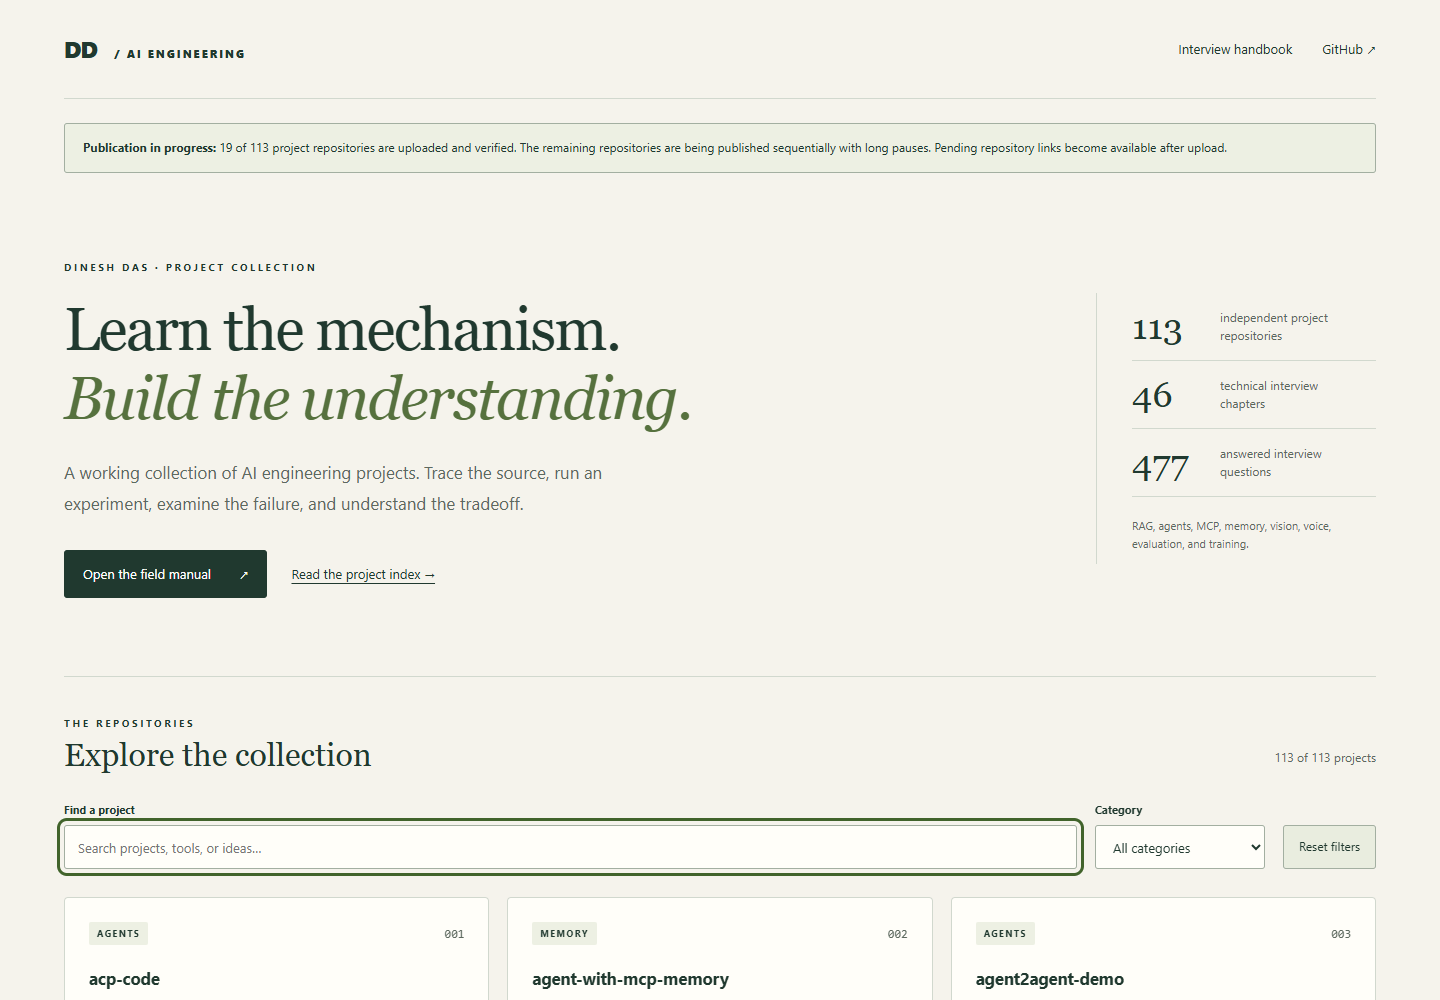
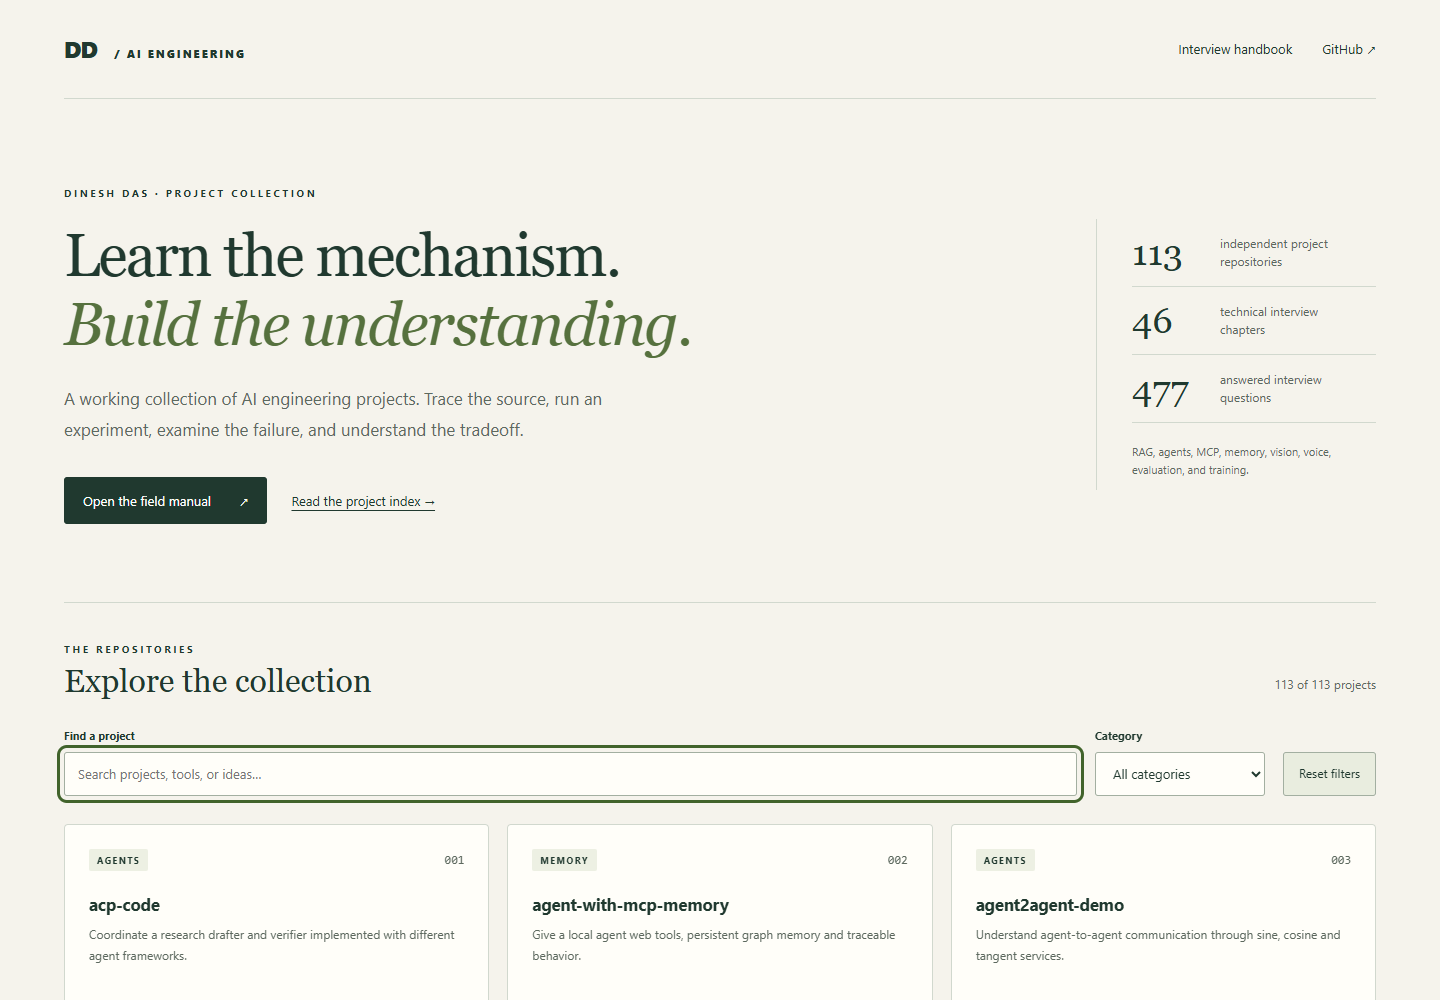
docs: record verified publication of all 113 project repositories

diff --git a/portfolio.html b/portfolio.html
@@ -5,7 +5,7 @@
 <title>AI Engineering Portfolio · Dinesh Das</title><link rel="stylesheet" href="portfolio.css"><script src="portfolio.js" defer></script></head>
 <body><a class="skip" href="#projects">Skip to projects</a><div class="shell">
 <header><a class="wordmark" href="portfolio.html">DD <span>/ AI ENGINEERING</span></a><nav aria-label="Main navigation"><a href="index.html">Interview handbook</a><a href="https://github.com/Dinesh-Das/AI-Engineering-Portfolio">GitHub ↗</a></nav></header>
-<main><p class="publication-status" role="note"><strong>Publication in progress:</strong> 98 of 113 project repositories are uploaded and verified. The remaining repositories are being published sequentially with long pauses. Pending repository links become available after upload.</p><section class="intro" aria-labelledby="title"><div><p class="eyebrow">DINESH DAS · PROJECT COLLECTION</p><h1 id="title">Learn the mechanism.<br><em>Build the understanding.</em></h1><p class="lead">A working collection of AI engineering projects. Trace the source, run an experiment, examine the failure, and understand the tradeoff.</p><div class="hero-links"><a class="primary" href="index.html">Open the field manual <span aria-hidden="true">↗</span></a><a href="https://github.com/Dinesh-Das/AI-Engineering-Portfolio/blob/main/PROJECT_INDEX.md">Read the project index →</a></div></div>
+<main><section class="intro" aria-labelledby="title"><div><p class="eyebrow">DINESH DAS · PROJECT COLLECTION</p><h1 id="title">Learn the mechanism.<br><em>Build the understanding.</em></h1><p class="lead">A working collection of AI engineering projects. Trace the source, run an experiment, examine the failure, and understand the tradeoff.</p><div class="hero-links"><a class="primary" href="index.html">Open the field manual <span aria-hidden="true">↗</span></a><a href="https://github.com/Dinesh-Das/AI-Engineering-Portfolio/blob/main/PROJECT_INDEX.md">Read the project index →</a></div></div>
 <aside class="stats" aria-label="Collection at a glance"><div><strong>113</strong><span>independent project repositories</span></div><div><strong>46</strong><span>technical interview chapters</span></div><div><strong>477</strong><span>answered interview questions</span></div><p>RAG, agents, MCP, memory, vision, voice, evaluation, and training.</p></aside></section>
 <section class="directory" aria-labelledby="directory-title"><div class="directory-heading"><div><p class="eyebrow">THE REPOSITORIES</p><h2 id="directory-title">Explore the collection</h2></div><p id="count" role="status" aria-live="polite">113 projects</p></div>
 <div class="filters"><div class="search"><label for="search">Find a project</label><input id="search" type="search" placeholder="Search projects, tools, or ideas…" autocomplete="off"></div><div><label for="category">Category</label><select id="category"><option value="">All categories</option><option value="agents">Agents</option><option value="evaluation">Evaluation</option><option value="interfaces">Interfaces</option><option value="mcp">Mcp</option><option value="media">Media</option><option value="memory">Memory</option><option value="ocr">Ocr</option><option value="operations">Operations</option><option value="rag">Rag</option><option value="recipe">Recipe</option><option value="retrieval">Retrieval</option><option value="structured">Structured</option><option value="training">Training</option><option value="voice">Voice</option></select></div><button id="reset" type="button">Reset filters</button></div>

diff --git a/docs/REPOSITORIES.md b/docs/REPOSITORIES.md
@@ -2,11 +2,11 @@
 
 [Local portfolio](../portfolio.html) · [Offline handbook](../index.html) · [Publication status](publication-report.json)
 
-**98 of 113 project repositories are uploaded and verified.** All 113 independent local checkouts are prepared on `main`. Pending URLs below are reserved names and become available as the sequential publication proceeds.
+**113 of 113 project repositories are uploaded and verified.** All independent project repositories are published on `main`.
 
 Hosting: [portfolio](https://dinesh-das.github.io/AI-Engineering-Portfolio/portfolio.html), [handbook](https://dinesh-das.github.io/AI-Engineering-Portfolio/), and [main repository](https://github.com/Dinesh-Das/AI-Engineering-Portfolio).
 
-The already-published repositories retain their existing histories. Each pending repository has three new commits dated on the actual preparation date in Asia/Kolkata. Existing OCR history is retained. Pushes keep their actual GitHub timestamps. Per-project commit dates are recorded in the publication report and repository manifest.
+All repositories retain their recorded publication histories. Existing OCR history is retained. Pushes keep their actual GitHub timestamps. Per-project commit dates are recorded in the publication report and repository manifest.
 
 | Project | Category | GitHub repository | Upload status | Final commit date |
 | --- | --- | --- | --- | --- |
@@ -108,18 +108,18 @@ The already-published repositories retain their existing histories. Each pending
 | sonnet4-vs-o4 | evaluation | [sonnet4-vs-o4](https://github.com/Dinesh-Das/sonnet4-vs-o4) | Verified | 2026-11-14 |
 | sonnet4-vs-qwen3-coder | evaluation | [sonnet4-vs-qwen3-coder](https://github.com/Dinesh-Das/sonnet4-vs-qwen3-coder) | Verified | 2026-11-14 |
 | stagehand x mcp-use | agents | [stagehand-x-mcp-use](https://github.com/Dinesh-Das/stagehand-x-mcp-use) | Verified | 2026-11-14 |
-| stock-portfolio-analysis-agent | agents | [stock-portfolio-analysis-agent](https://github.com/Dinesh-Das/stock-portfolio-analysis-agent) | Pending creation | 2026-11-14 |
-| streaming-ai-chatbot | interfaces | [streaming-ai-chatbot](https://github.com/Dinesh-Das/streaming-ai-chatbot) | Pending creation | 2026-11-14 |
-| train-yolo26-object-detection | training | [train-yolo26-object-detection](https://github.com/Dinesh-Das/train-yolo26-object-detection) | Pending creation | 2026-11-14 |
-| trustworthy-rag | rag | [trustworthy-rag](https://github.com/Dinesh-Das/trustworthy-rag) | Pending creation | 2026-11-14 |
-| ultimate-ai-assitant-using-mcp | mcp | [ultimate-ai-assitant-using-mcp](https://github.com/Dinesh-Das/ultimate-ai-assitant-using-mcp) | Pending creation | 2026-11-14 |
-| video-rag-gemini | media | [video-rag-gemini](https://github.com/Dinesh-Das/video-rag-gemini) | Pending creation | 2026-11-14 |
-| web-browsing-agent | agents | [web-browsing-agent](https://github.com/Dinesh-Das/web-browsing-agent) | Pending creation | 2026-11-14 |
-| Website-to-API-with-FireCrawl | structured | [Website-to-API-with-FireCrawl](https://github.com/Dinesh-Das/Website-to-API-with-FireCrawl) | Pending creation | 2026-11-14 |
-| Youtube-trend-analysis | agents | [Youtube-trend-analysis](https://github.com/Dinesh-Das/Youtube-trend-analysis) | Pending creation | 2026-11-14 |
-| zep-memory-assistant | memory | [zep-memory-assistant](https://github.com/Dinesh-Das/zep-memory-assistant) | Pending creation | 2026-11-14 |
-| zep-observations | memory | [zep-observations](https://github.com/Dinesh-Das/zep-observations) | Pending creation | 2026-11-14 |
-| Latex-OCR-Lama | ocr | [Latex-OCR-Lama](https://github.com/Dinesh-Das/Latex-OCR-Lama) | Pending creation | 2026-11-14 |
-| gemma3-ocr | ocr | [gemma3-ocr](https://github.com/Dinesh-Das/gemma3-ocr) | Pending creation | 2026-11-14 |
-| llama-ocr | ocr | [llama-ocr](https://github.com/Dinesh-Das/llama-ocr) | Pending creation | 2026-11-14 |
-| qwen-2.5VL-ocr | ocr | [qwen-2.5VL-ocr](https://github.com/Dinesh-Das/qwen-2.5VL-ocr) | Pending creation | 2026-11-14 |
+| stock-portfolio-analysis-agent | agents | [stock-portfolio-analysis-agent](https://github.com/Dinesh-Das/stock-portfolio-analysis-agent) | Verified | 2026-11-14 |
+| streaming-ai-chatbot | interfaces | [streaming-ai-chatbot](https://github.com/Dinesh-Das/streaming-ai-chatbot) | Verified | 2026-11-14 |
+| train-yolo26-object-detection | training | [train-yolo26-object-detection](https://github.com/Dinesh-Das/train-yolo26-object-detection) | Verified | 2026-11-14 |
+| trustworthy-rag | rag | [trustworthy-rag](https://github.com/Dinesh-Das/trustworthy-rag) | Verified | 2026-11-14 |
+| ultimate-ai-assitant-using-mcp | mcp | [ultimate-ai-assitant-using-mcp](https://github.com/Dinesh-Das/ultimate-ai-assitant-using-mcp) | Verified | 2026-11-14 |
+| video-rag-gemini | media | [video-rag-gemini](https://github.com/Dinesh-Das/video-rag-gemini) | Verified | 2026-11-14 |
+| web-browsing-agent | agents | [web-browsing-agent](https://github.com/Dinesh-Das/web-browsing-agent) | Verified | 2026-11-14 |
+| Website-to-API-with-FireCrawl | structured | [Website-to-API-with-FireCrawl](https://github.com/Dinesh-Das/Website-to-API-with-FireCrawl) | Verified | 2026-11-14 |
+| Youtube-trend-analysis | agents | [Youtube-trend-analysis](https://github.com/Dinesh-Das/Youtube-trend-analysis) | Verified | 2026-11-14 |
+| zep-memory-assistant | memory | [zep-memory-assistant](https://github.com/Dinesh-Das/zep-memory-assistant) | Verified | 2026-11-14 |
+| zep-observations | memory | [zep-observations](https://github.com/Dinesh-Das/zep-observations) | Verified | 2026-11-14 |
+| Latex-OCR-Lama | ocr | [Latex-OCR-Lama](https://github.com/Dinesh-Das/Latex-OCR-Lama) | Verified | 2026-11-14 |
+| gemma3-ocr | ocr | [gemma3-ocr](https://github.com/Dinesh-Das/gemma3-ocr) | Verified | 2026-11-14 |
+| llama-ocr | ocr | [llama-ocr](https://github.com/Dinesh-Das/llama-ocr) | Verified | 2026-11-14 |
+| qwen-2.5VL-ocr | ocr | [qwen-2.5VL-ocr](https://github.com/Dinesh-Das/qwen-2.5VL-ocr) | Verified | 2026-11-14 |

diff --git a/docs/PUBLICATION.md b/docs/PUBLICATION.md
@@ -1,6 +1,6 @@
 # GitHub publication
 
-The target is one public GitHub repository per project, plus [AI-Engineering-Portfolio](https://github.com/Dinesh-Das/AI-Engineering-Portfolio) as its main directory. All 113 local publication repositories are prepared on `main`. **Ten project repositories were verified in the initial batch; further uploads proceed through a slow sequential queue.** The main repository and website are live. The [publication report](publication-report.json) records the verified project set. Publication uses persistent pacing and automatic backoff.
+The target is one public GitHub repository per project, plus [AI-Engineering-Portfolio](https://github.com/Dinesh-Das/AI-Engineering-Portfolio) as its main directory. All 113 local publication repositories are prepared on `main`. **All 113 project repositories are uploaded and their remote heads are verified.** The main repository is published and GitHub Pages is configured. The [publication report](publication-report.json) records the completed set.
 
 - [Live searchable portfolio](https://dinesh-das.github.io/AI-Engineering-Portfolio/portfolio.html)
 - [Live interactive HTML interview handbook](https://dinesh-das.github.io/AI-Engineering-Portfolio/)
